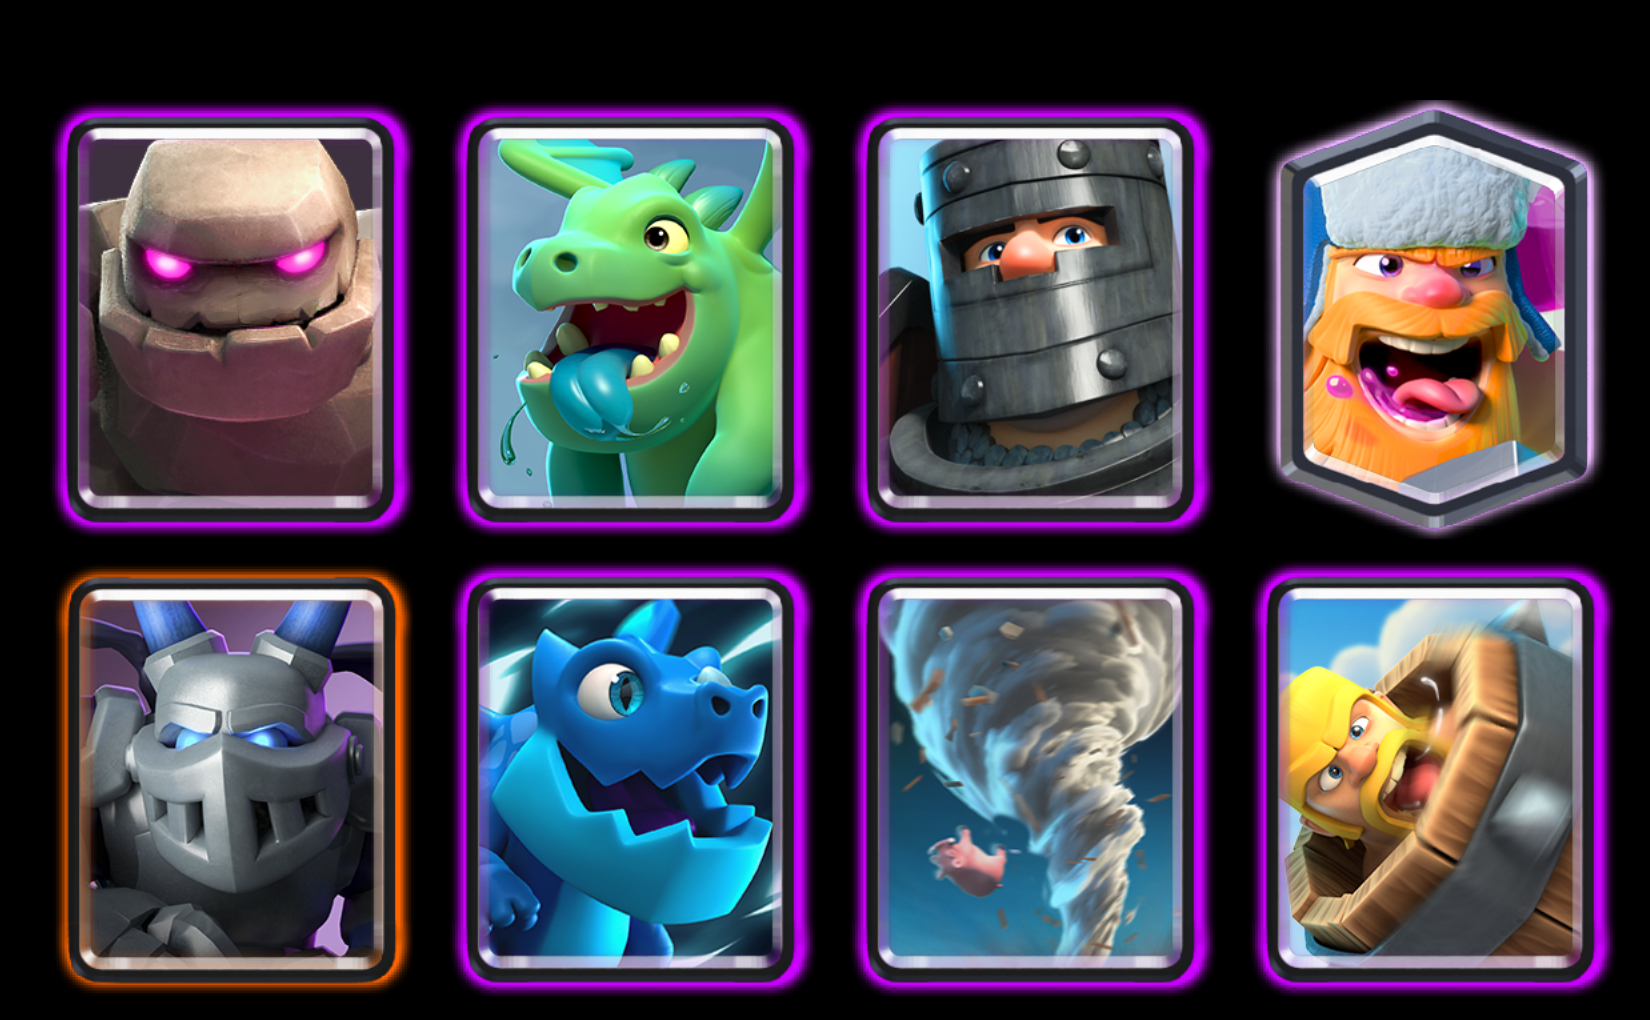
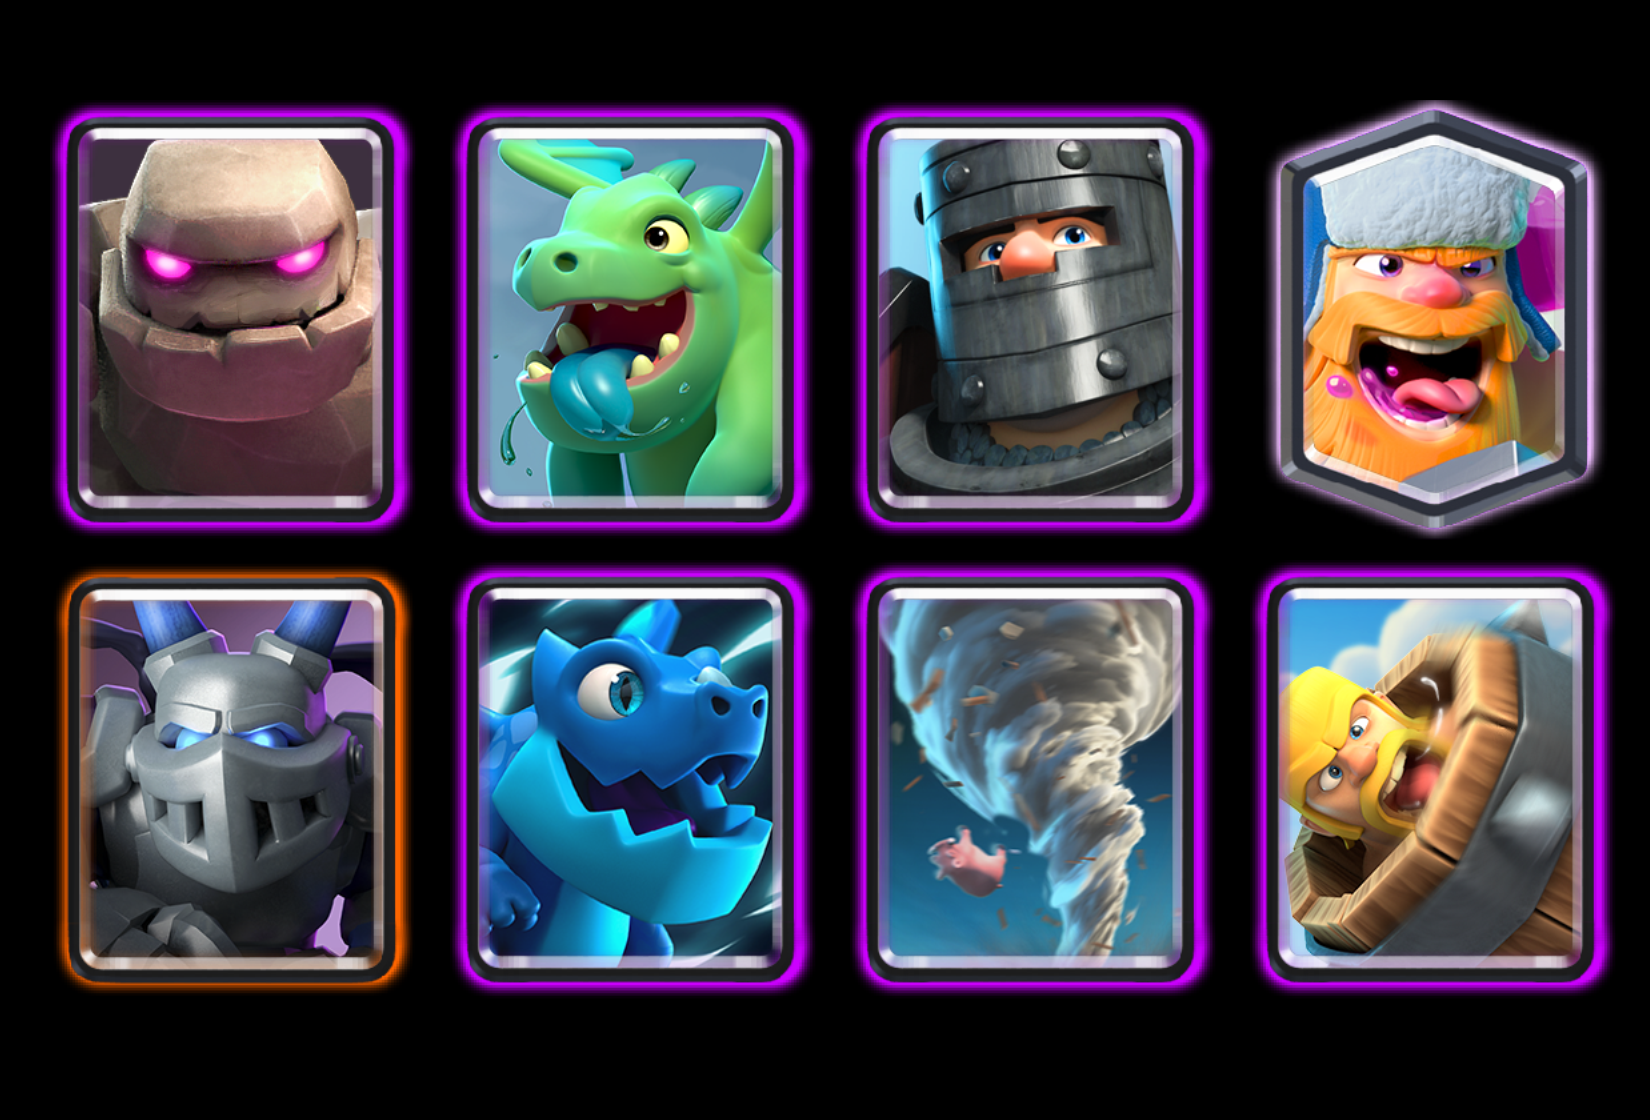
Drawing image

diff --git a/TWPoster/CardJam.cs b/TWPoster/CardJam.cs
@@ -34,7 +34,7 @@ namespace TWPoster
             int cardHeight = 360;
 
             int imageWidth = (widthSpaces * 5) + (cardWidth * 4);
-            int imageHeight = (heightSpaces * 3) + (cardHeight * 2);
+            int imageHeight = (heightSpaces * 4) + (cardHeight * 2);
 
             Image firstImage = Images.First();
             String resultPath = "image3.png";
